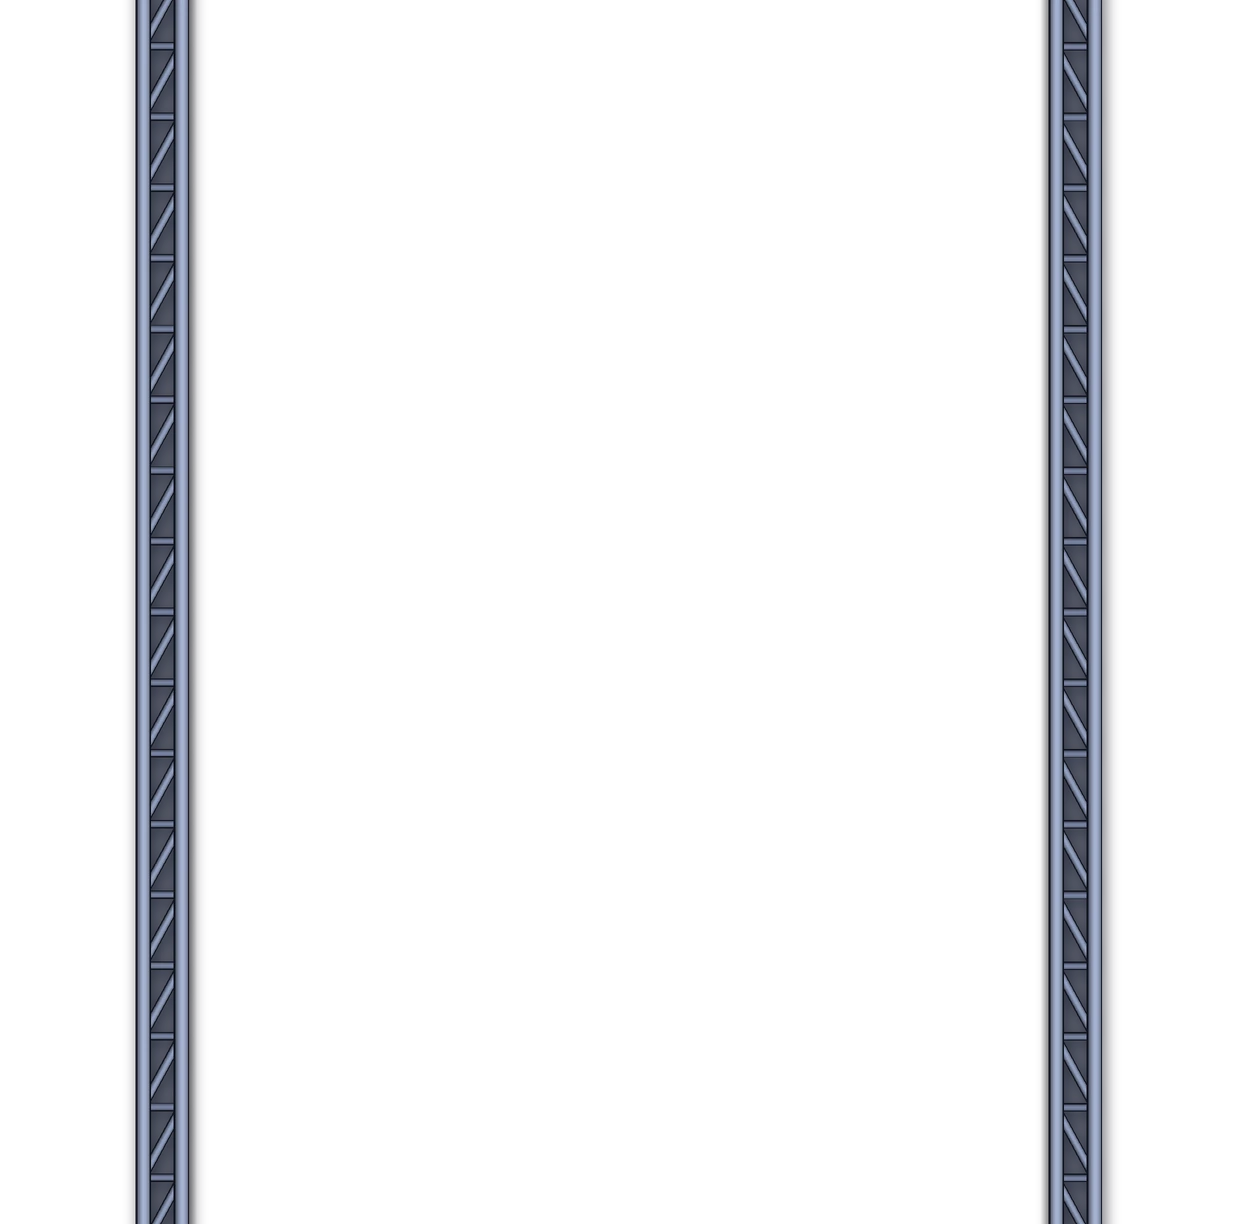
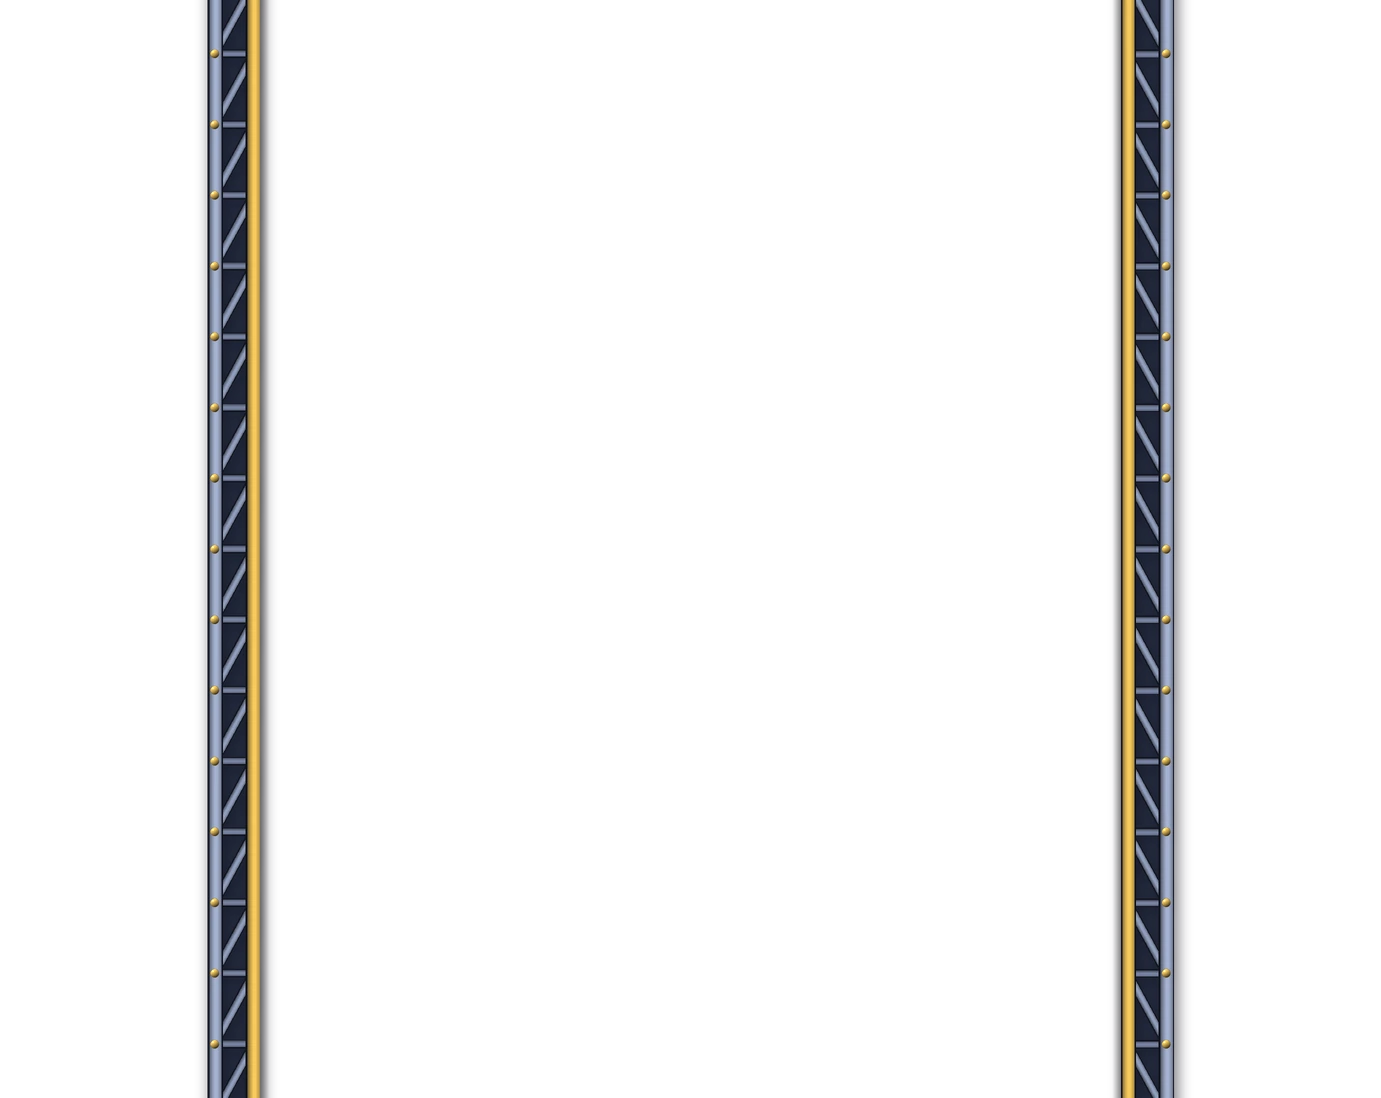
Floodlit border: lights on, gold accents, bigger glowing scoreboard, solid scaffold, visible sparkles
Claude-Session: https://claude.ai/code/session_01EnXvJ6P6HcGRxjBSnYPdAU

Changed region(s): [[0.7987, 0.0, 0.9216, 1.0], [0.0922, 0.0, 0.215, 1.0]]

diff --git a/www/assets/v22.js b/www/assets/v22.js
@@ -70,7 +70,7 @@
 
   // ── 2. FINALS: a full league bar unlocks that league's Final; winning it lifts the cup and opens the next league
   const kfmt = n => n >= 1000 ? (Math.round(n / 100) / 10).toString().replace(/\.0$/, '') + 'K' : fmt(n);
-  const FRAMES = new Set([1, 2]), BADGES = new Set([...Array(27).keys()].map(i => i + 1)), FDIM = { 5: [0.25, 0.2214], 7: [0.3271, 0.24], 8: [0.4686, 0.3886], 2: [0.3023, 0.2546], 3: [0.3471, 0.3629], 4: [0.3257, 0.3529], 1: [0.2018, 0.2055], 6: [0.289, 0.2475], 16: [0.2241, 0.2241], 18: [0.2, 0.1834], 21: [0.228, 0.2052] };
+  const FRAMES = new Set([1, 2]), BADGES = new Set([...Array(27).keys()].map(i => i + 1)), FDIM = { 5: [0.25, 0.2214], 7: [0.3271, 0.24], 8: [0.4686, 0.3886], 2: [0.3164, 0.3164], 3: [0.3471, 0.3629], 4: [0.3257, 0.3529], 1: [0.2018, 0.2055], 6: [0.289, 0.2475], 16: [0.2241, 0.2241], 18: [0.2, 0.1834], 21: [0.228, 0.2052] };
   function F() { const f = sec('finals'); if (!f.won) { f.won = {}; f.ready = {}; const hi = highestLeagueIdx(); for (let i = 1; i < hi; i++) f.won[i] = 1; save(); } return f; }
   const finalWon = i => !!F().won[i], finalReady = i => !!F().ready[i] && !F().won[i];
   const cupsWon = () => Object.keys(F().won).filter(k => +k >= 1).length;
@@ -401,7 +401,7 @@
   .tcard .lockx.st.open .chn img.padb,.lockx.st.open img.padb{animation:none!important}
   .v2pz2 .g:not(.f){flex:0 0 40%!important}.v2pz2 .g:not(.f) .row{gap:4px;justify-content:space-around}.v2pz2 .g:not(.f) .row span{font-size:11.5px;letter-spacing:-.2px}.v2pz2 .g.f .row{gap:3px}.v2pz2 .g.f .row span{font-size:11.5px;letter-spacing:-.2px}
   .tcard.pt.tf:not([data-lg="6"]):not([data-lg="16"])::before{border-radius:28px}.tcard.pt.tf::after{z-index:40!important;pointer-events:none;--cw:calc(100cqw + 2 * var(--pad,22px));--fw:calc(var(--cw) * (1 + 2 * var(--fside,0)));left:calc(var(--cw) * var(--fside,0) * -1);right:calc(var(--cw) * var(--fside,0) * -1)}
-  .tcard.pt.tf[data-lg="1"]{--hl:0.1005;--hr:0.894;--ht:0.0968;--hb:0.1005}.tcard.pt.tf[data-lg="2"]{--hl:0.152;--hr:0.848;--ht:0.2102;--hb:0.1625}.tcard.pt.tf[data-lg="3"]{--hl:0.1014;--hr:0.9;--ht:0.2329;--hb:0.1557}.tcard.pt.tf[data-lg="4"]{--hl:0.1171;--hr:0.8814;--ht:0.2686;--hb:0.0929}.tcard.pt.tf[data-lg="5"]{--hl:0.0943;--hr:0.9057;--ht:0.1657;--hb:0.1314}.tcard.pt.tf[data-lg="6"]{--hl:0.088;--hr:0.912;--ht:0.2442;--hb:0.1346}.tcard.pt.tf[data-lg="7"]{--hl:0.1543;--hr:0.8443;--ht:0.2;--hb:0.1571}.tcard.pt.tf[data-lg="8"]{--hl:0.1557;--hr:0.8457;--ht:0.2514;--hb:0.1729}.tcard.pt.tf[data-lg="16"]{--hl:0.0833;--hr:0.9195;--ht:0.1609;--hb:0.1106}.tcard.pt.tf[data-lg="18"]{--hl:0.0539;--hr:0.9461;--ht:0.0705;--hb:0.0539}.tcard.pt.tf[data-lg="21"]{--hl:0.0539;--hr:0.9461;--ht:0.0984;--hb:0.0756}.tcard.pt.tf::after{--tw:calc(100cqw + 2 * var(--pad,22px));--fw:calc(var(--tw) / (var(--hr) - var(--hl)));left:calc(0px - var(--fw) * var(--hl))!important;right:auto!important;width:var(--fw)!important;top:calc(0px - var(--fw) * var(--ht))!important;bottom:calc(0px - var(--fw) * var(--hb))!important;z-index:40!important;pointer-events:none}
+  .tcard.pt.tf[data-lg="1"]{--hl:0.1005;--hr:0.894;--ht:0.0968;--hb:0.1005}.tcard.pt.tf[data-lg="2"]{--hl:0.1883;--hr:0.8117;--ht:0.1883;--hb:0.1883}.tcard.pt.tf[data-lg="3"]{--hl:0.1014;--hr:0.9;--ht:0.2329;--hb:0.1557}.tcard.pt.tf[data-lg="4"]{--hl:0.1171;--hr:0.8814;--ht:0.2686;--hb:0.0929}.tcard.pt.tf[data-lg="5"]{--hl:0.0943;--hr:0.9057;--ht:0.1657;--hb:0.1314}.tcard.pt.tf[data-lg="6"]{--hl:0.088;--hr:0.912;--ht:0.2442;--hb:0.1346}.tcard.pt.tf[data-lg="7"]{--hl:0.1543;--hr:0.8443;--ht:0.2;--hb:0.1571}.tcard.pt.tf[data-lg="8"]{--hl:0.1557;--hr:0.8457;--ht:0.2514;--hb:0.1729}.tcard.pt.tf[data-lg="16"]{--hl:0.0833;--hr:0.9195;--ht:0.1609;--hb:0.1106}.tcard.pt.tf[data-lg="18"]{--hl:0.0539;--hr:0.9461;--ht:0.0705;--hb:0.0539}.tcard.pt.tf[data-lg="21"]{--hl:0.0539;--hr:0.9461;--ht:0.0984;--hb:0.0756}.tcard.pt.tf::after{--tw:calc(100cqw + 2 * var(--pad,22px));--fw:calc(var(--tw) / (var(--hr) - var(--hl)));left:calc(0px - var(--fw) * var(--hl))!important;right:auto!important;width:var(--fw)!important;top:calc(0px - var(--fw) * var(--ht))!important;bottom:calc(0px - var(--fw) * var(--hb))!important;z-index:40!important;pointer-events:none}
   #v2deck .v2rail{gap:90px!important}
   .tcard.pt:not(.tf)::after{border:0!important;border-image:none!important}
   .tcard.pt.tf::before{inset:0!important;border-radius:4px!important}
